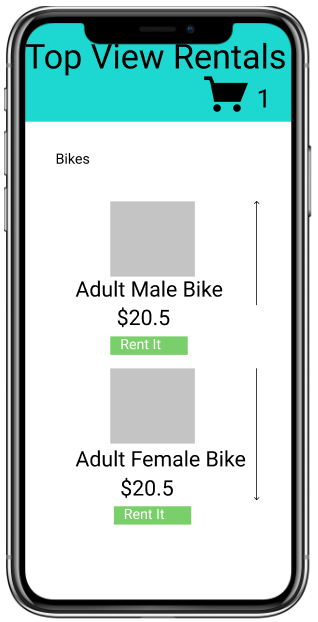
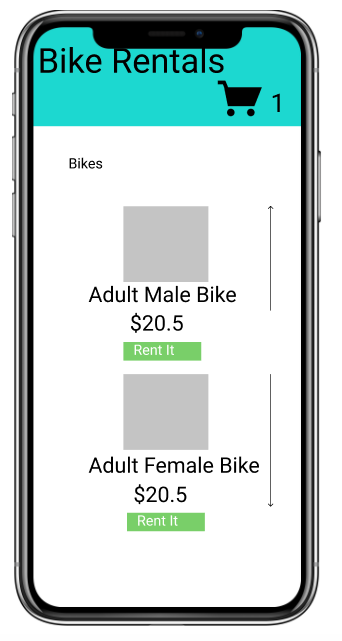
minor changes

diff --git a/src/components/header.js b/src/components/header.js
@@ -9,7 +9,7 @@ function Header(props){
  <div className="jumbotron jumbotron-fluid" style={{backgroundColor:"#b0e0e6"}}>
   <div className="container">
       <div class="col-lg-auto">
-    <h1 className="display-4" style={{fontFamily: 'Saira Stencil One'}}>TopView Rentals</h1>
+    <h1 className="display-4" style={{fontFamily: 'Saira Stencil One'}}>Bike Rentals</h1>
   </div>
 
 <div className="float-right" >

diff --git a/src/App.js b/src/App.js
@@ -142,7 +142,7 @@ class App extends Component {
           </ModalBody>
           <ModalFooter>
 
-            <Button color='success'>Check Out</Button>
+            {/* <Button color='success'>Check Out</Button> */}
             <Button color='success' onClick={this.toggleModal.bind(this)}>Cancel</Button>
           </ModalFooter>
         </Modal>
